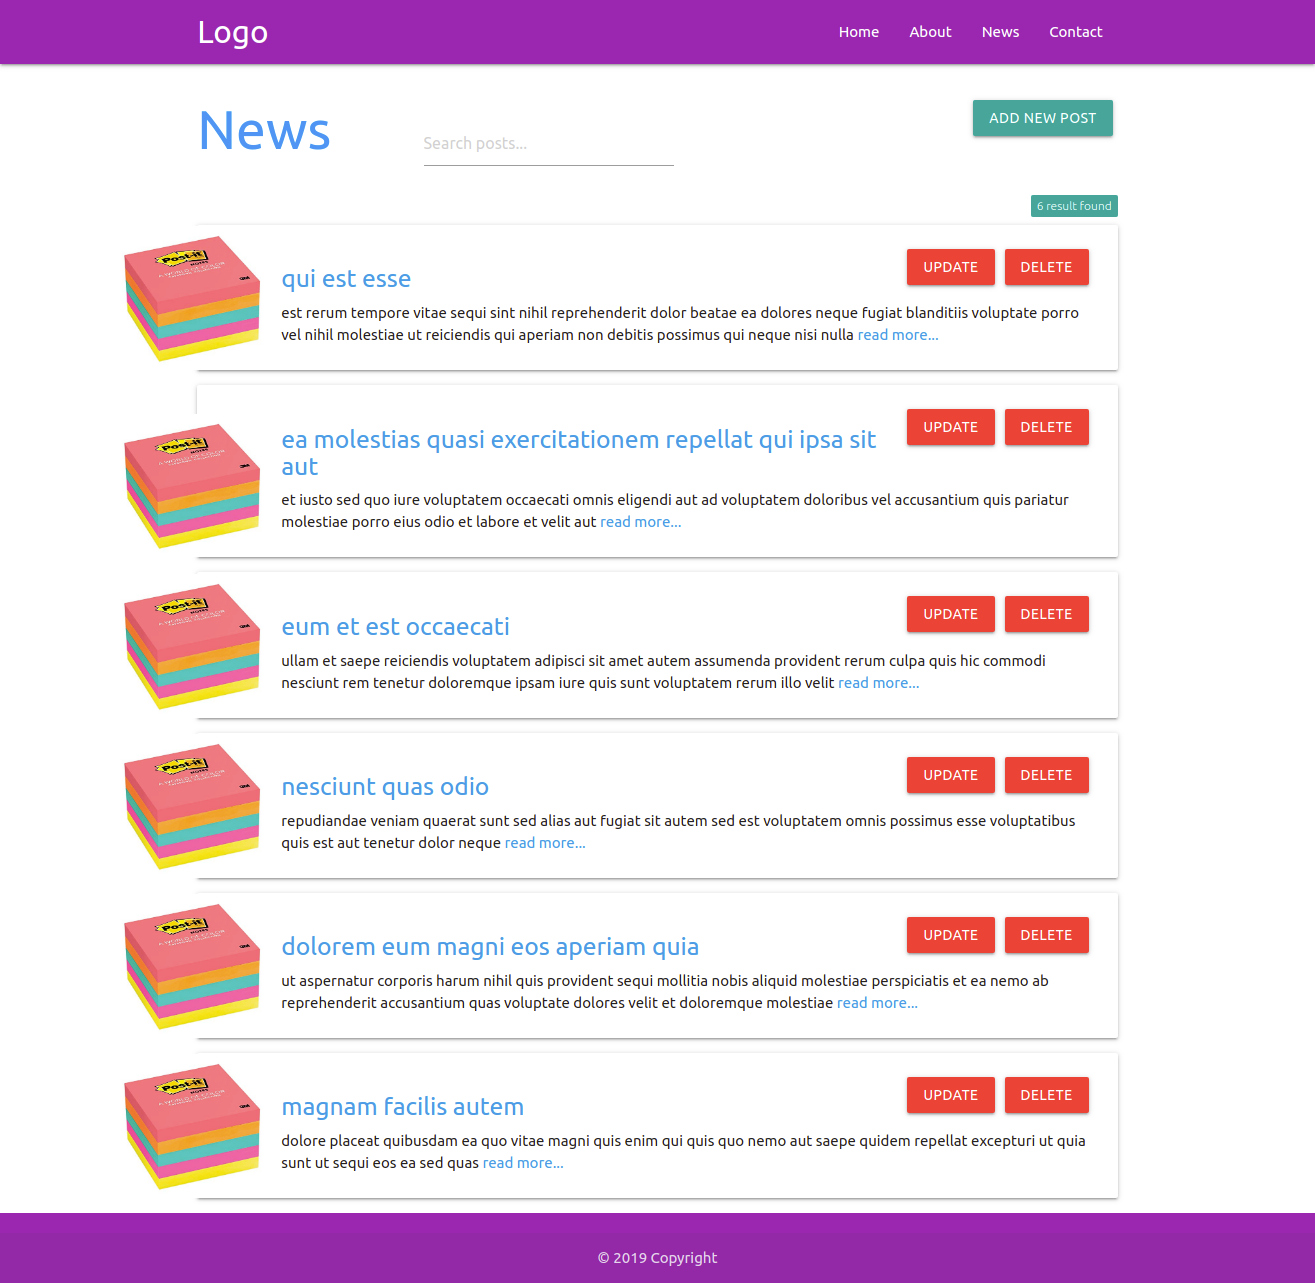
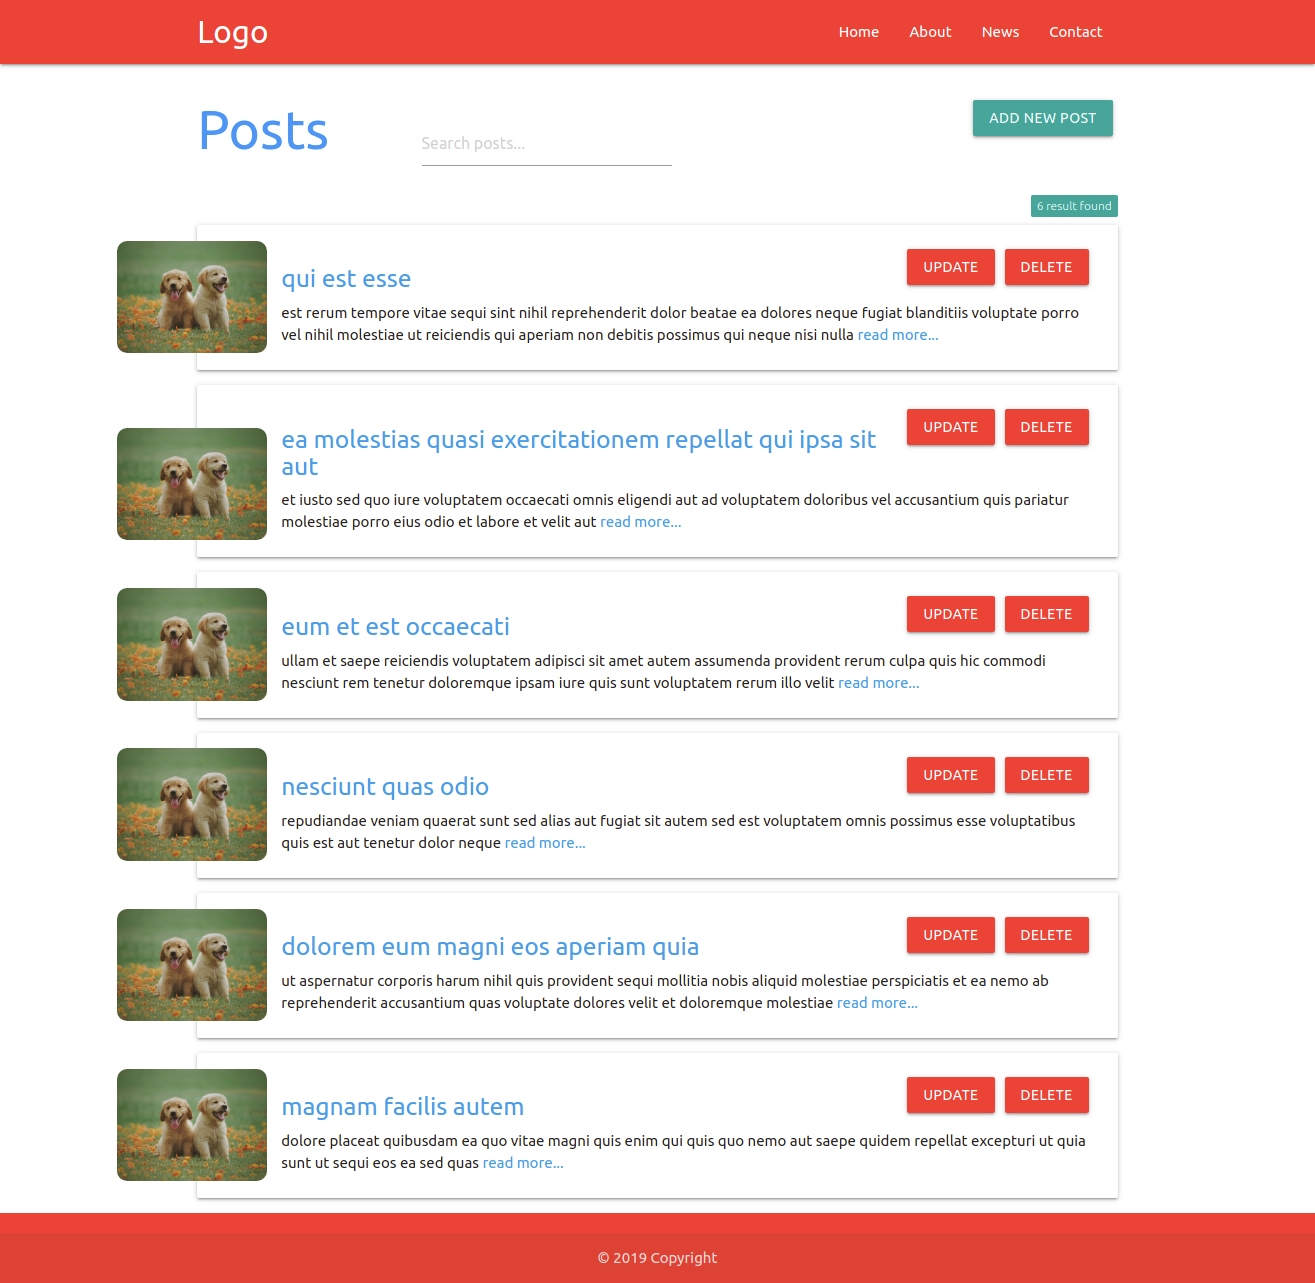
Add image

diff --git a/src/components/Posts.js b/src/components/Posts.js
@@ -43,7 +43,7 @@ class Posts extends Component {
         return(
             
                 <div className="posts">
-                    <h2 className="blue-text">News <input onChange={this.handleChange} style={{width:250, marginLeft:80}} type="text" placeholder="Search posts..." /> <a href="/addpost" className="btn right">Add new Post</a></h2>
+                    <h2 className="blue-text">Posts <input onChange={this.handleChange} style={{width:250, marginLeft:80}} type="text" placeholder="Search posts..." /> <a href="/addpost" className="btn right">Add new Post</a></h2>
                     <h5><span className="new badge" data-badge-caption="result found">{newlist.length}</span></h5>
                     <br />
                     { postlist }

diff --git a/src/index.css b/src/index.css
@@ -14,8 +14,9 @@ code {
 }
 .postimg {
   position: absolute;
-  bottom: 0;
+  bottom: 17px;
   left: -80px;
+  border-radius: 10px;
 }.posts .card {
   padding-left: 60px;
 }.main-container{
